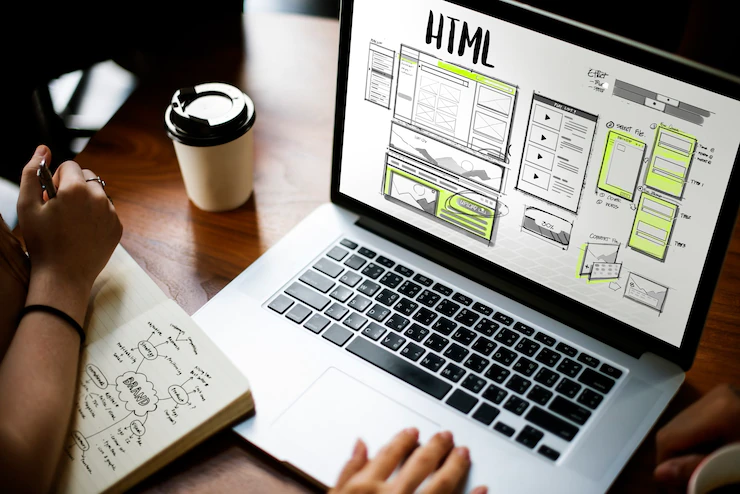
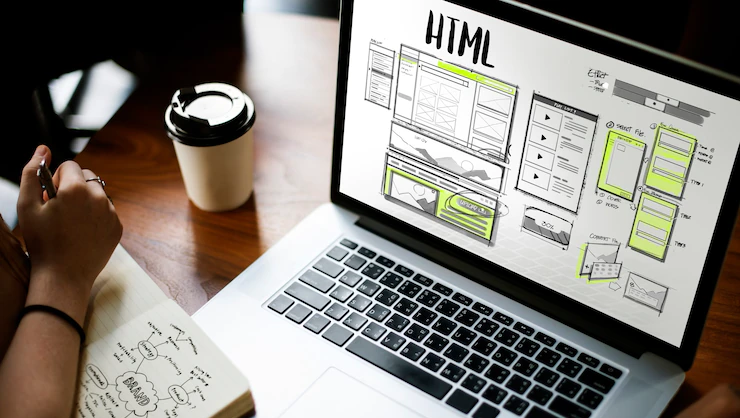
hero changed

diff --git a/src/components/Hero-Section/HeroSection.jsx b/src/components/Hero-Section/HeroSection.jsx
@@ -7,10 +7,11 @@ import "./hero-section.css";
 import "slick-carousel/slick/slick.css"; 
 import "slick-carousel/slick/slick-theme.css";
 
-// Assuming you have multiple hero images
+
 import heroImg1 from "../../assests/images/hero.jpeg";
 import heroImg2 from "../../assests/images/hero1.jpeg";
 import heroImg3 from "../../assests/images/hero3.jpeg";
+import heroImg4 from "../../assests/images/hero-img1.png"
 
 const HeroSection = () => {
   const [ref, inView] = useInView({
@@ -24,7 +25,7 @@ const HeroSection = () => {
     slidesToShow: 1,
     slidesToScroll: 1,
     autoplay: true,
-    autoplaySpeed: 3000,
+    autoplaySpeed: 6000,
   };
 
   return (
@@ -37,12 +38,26 @@ const HeroSection = () => {
       <Container>
         <Row>
           <Col lg="6" md="6">
+          <motion.div
+              initial={{ opacity: 0, x: -50 }}
+              animate={{ opacity: 1, x: 0 }}
+              transition={{ duration: 1, delay: 1 }}
+            >
+
           <h2 className="mb-4 hero__title">
                 At your convenience <br /> Learn on your <br /> Suitable Schedule
               </h2>
               <p className="mb-5">
                 Select from our wide range of <strong>hands-on <br/> and project-based </strong> courses to suite your <br/> interest or that of your ward! <br />
               </p>
+     </motion.div>
+             <motion.div
+              initial={{ opacity: 0, x: -50 }}
+              animate={{ opacity: 1, x: 0 }}
+              transition={{ duration: 1, delay: 1 }}
+            >
+              <p>Unsure of the course to select? <br/>Get in touch. <br/><b>We will help you choose.</b> </p>
+            </motion.div>
           </Col>
 
           <Col lg="6" md="6">
@@ -71,7 +86,14 @@ const HeroSection = () => {
                   className="w-100 hero__img"
                 />
               </div>
-              {/* Add more images as needed */}
+              <div>
+                <motion.img
+                  src={heroImg4}
+                  alt=""
+                  className="w-100 hero__img"
+                />
+              </div>
+              {/*more images */}
             </Slider>
           </Col>
         </Row>

diff --git a/src/assests/CourseData.js b/src/assests/CourseData.js
@@ -1,11 +1,11 @@
 import courseImg1 from "./images/web-design.png"
 import courseImg2 from "./images/scratch.png"
-import courseImg3 from "./images/python.jpeg"
+import courseImg3 from "./images/code.jpeg"
 
 ///freecourses
 import courseImg01 from "./images/web-development.png"
-import courseImg02 from "./images/git.jpeg"
-import courseImg03 from "./images/seo.png"
+import courseImg02 from "./images/git2.jpeg"
+import courseImg03 from "./images/graphicDesign.jpg"
 import courseImg04 from "./images/uiux.jpeg"
 
 export const coursesData = [
@@ -17,7 +17,7 @@ export const coursesData = [
     "Requirements": "Computer and Internet",
     "difficulty": "Beginner Level",
     "rating": 4.6,
-    "imgUrl": courseImg1,
+    "imgUrl": courseImg3,
     "videourl": "https://example.com/web_development_intro_video",
     "Description": "This course covers the fundamentals of web development including HTML, CSS, and JavaScript.",
     "Course related projects to be completed": [
@@ -51,7 +51,7 @@ export const coursesData = [
     "difficulty": "Beginner Level",
     "students": 101,
     "rating": 4.8,
-    "imgUrl": courseImg3,
+    "imgUrl": courseImg01,
     "videourl": "https://example.com/python_intro_video",
     "Description": "This course provides an introduction to Python programming language covering basic syntax, data types, and control structures.",
     "Course related projects to be completed": [
@@ -67,7 +67,7 @@ export const freeCourseData = [
     id: "01",
     title: " Introduction to HTML/CSS",
     Requirements: "Computer and Internet connection",
-    imgUrl: courseImg01,
+    imgUrl: courseImg1,
     students: 73,
     rating: 4.7,
   },

diff --git a/src/components/Free-course-section/free-course.css b/src/components/Free-course-section/free-course.css
@@ -1,3 +1,14 @@
+
+.single__free__course {
+
+}
+
+@media (max-width: 768px) {
+  .single__free__course {
+    padding: 20px; 
+  }
+}
+
 .free__course__img {
   position: relative;
   width: 100%;
@@ -22,13 +33,12 @@
 
 .free__course__details h6 {
   font-weight: 600;
-  line-height: 2rem;
+  line-height:  0rem;
 }
 
 .free__course__img img {
-  border-radius: 10px;
-  margin-bottom: 20px;
-  height: 200px;
+
+  height: 100%;
   width: 300px;
   object-fit: cover;
 }

diff --git a/src/components/Courses-section/courses.css b/src/components/Courses-section/courses.css
@@ -1,5 +1,6 @@
 .single__course__item {
-  padding: 15px;
+  padding: 25px;
+  
 }
 
 .course__img img {
@@ -23,6 +24,7 @@
   font-size: 0.9rem;
   color: #0a2b1e;
   font-weight: 500;
+  line-height: 5%;
 }
 
 .lesson i,
@@ -33,8 +35,9 @@
 
 .course__title {
   font-weight: 600;
-  line-height: 2rem;
+  line-height: 1rem;
 }
+
 
 .course__top__left h2 {
   font-weight: 600;

diff --git a/src/components/Testimonial/testimonial.css b/src/components/Testimonial/testimonial.css
@@ -3,9 +3,8 @@
 }
 
 
-/* testimonial.css */
+
 .testimonial__img img {
-  /* Scale down the image to 80% of its original size; adjust as needed */
   transform: scale(0.7);
-  transform-origin: center; /* Ensures the scaling is centered */
+  transform-origin: center;
 }

diff --git a/src/components/Hero-Section/hero-section.css b/src/components/Hero-Section/hero-section.css
@@ -21,3 +21,9 @@
   border-radius: 50px;
   margin-top: 20px;
 }
+
+
+.hero__img {
+  transform: scale(0.95);
+  transform-origin: center;
+}
